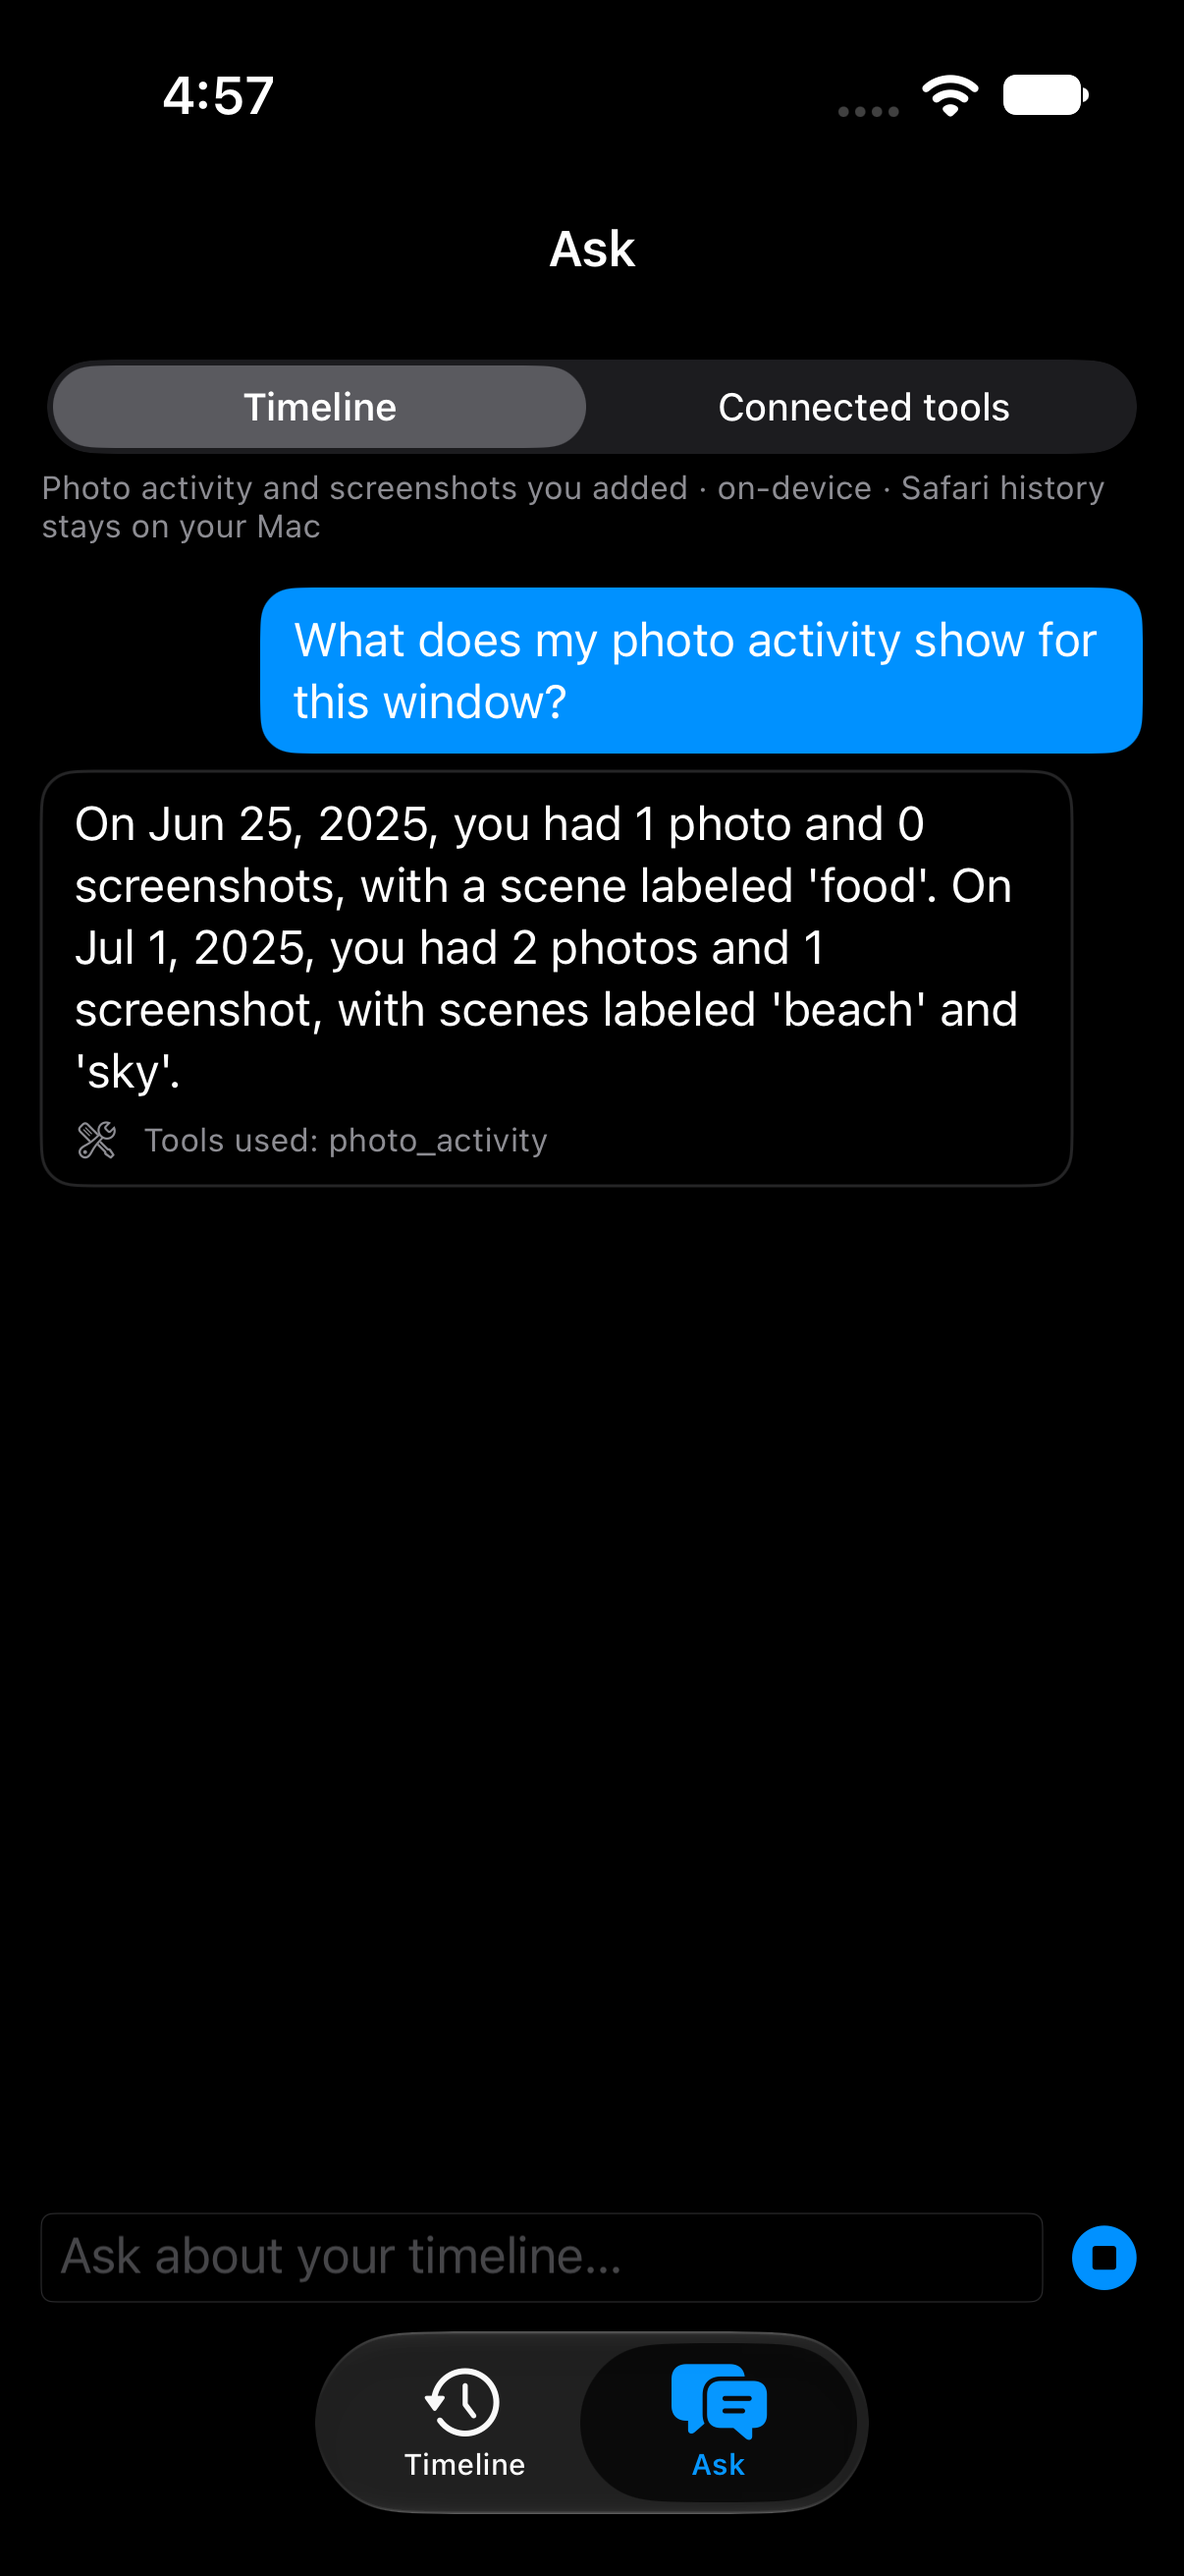
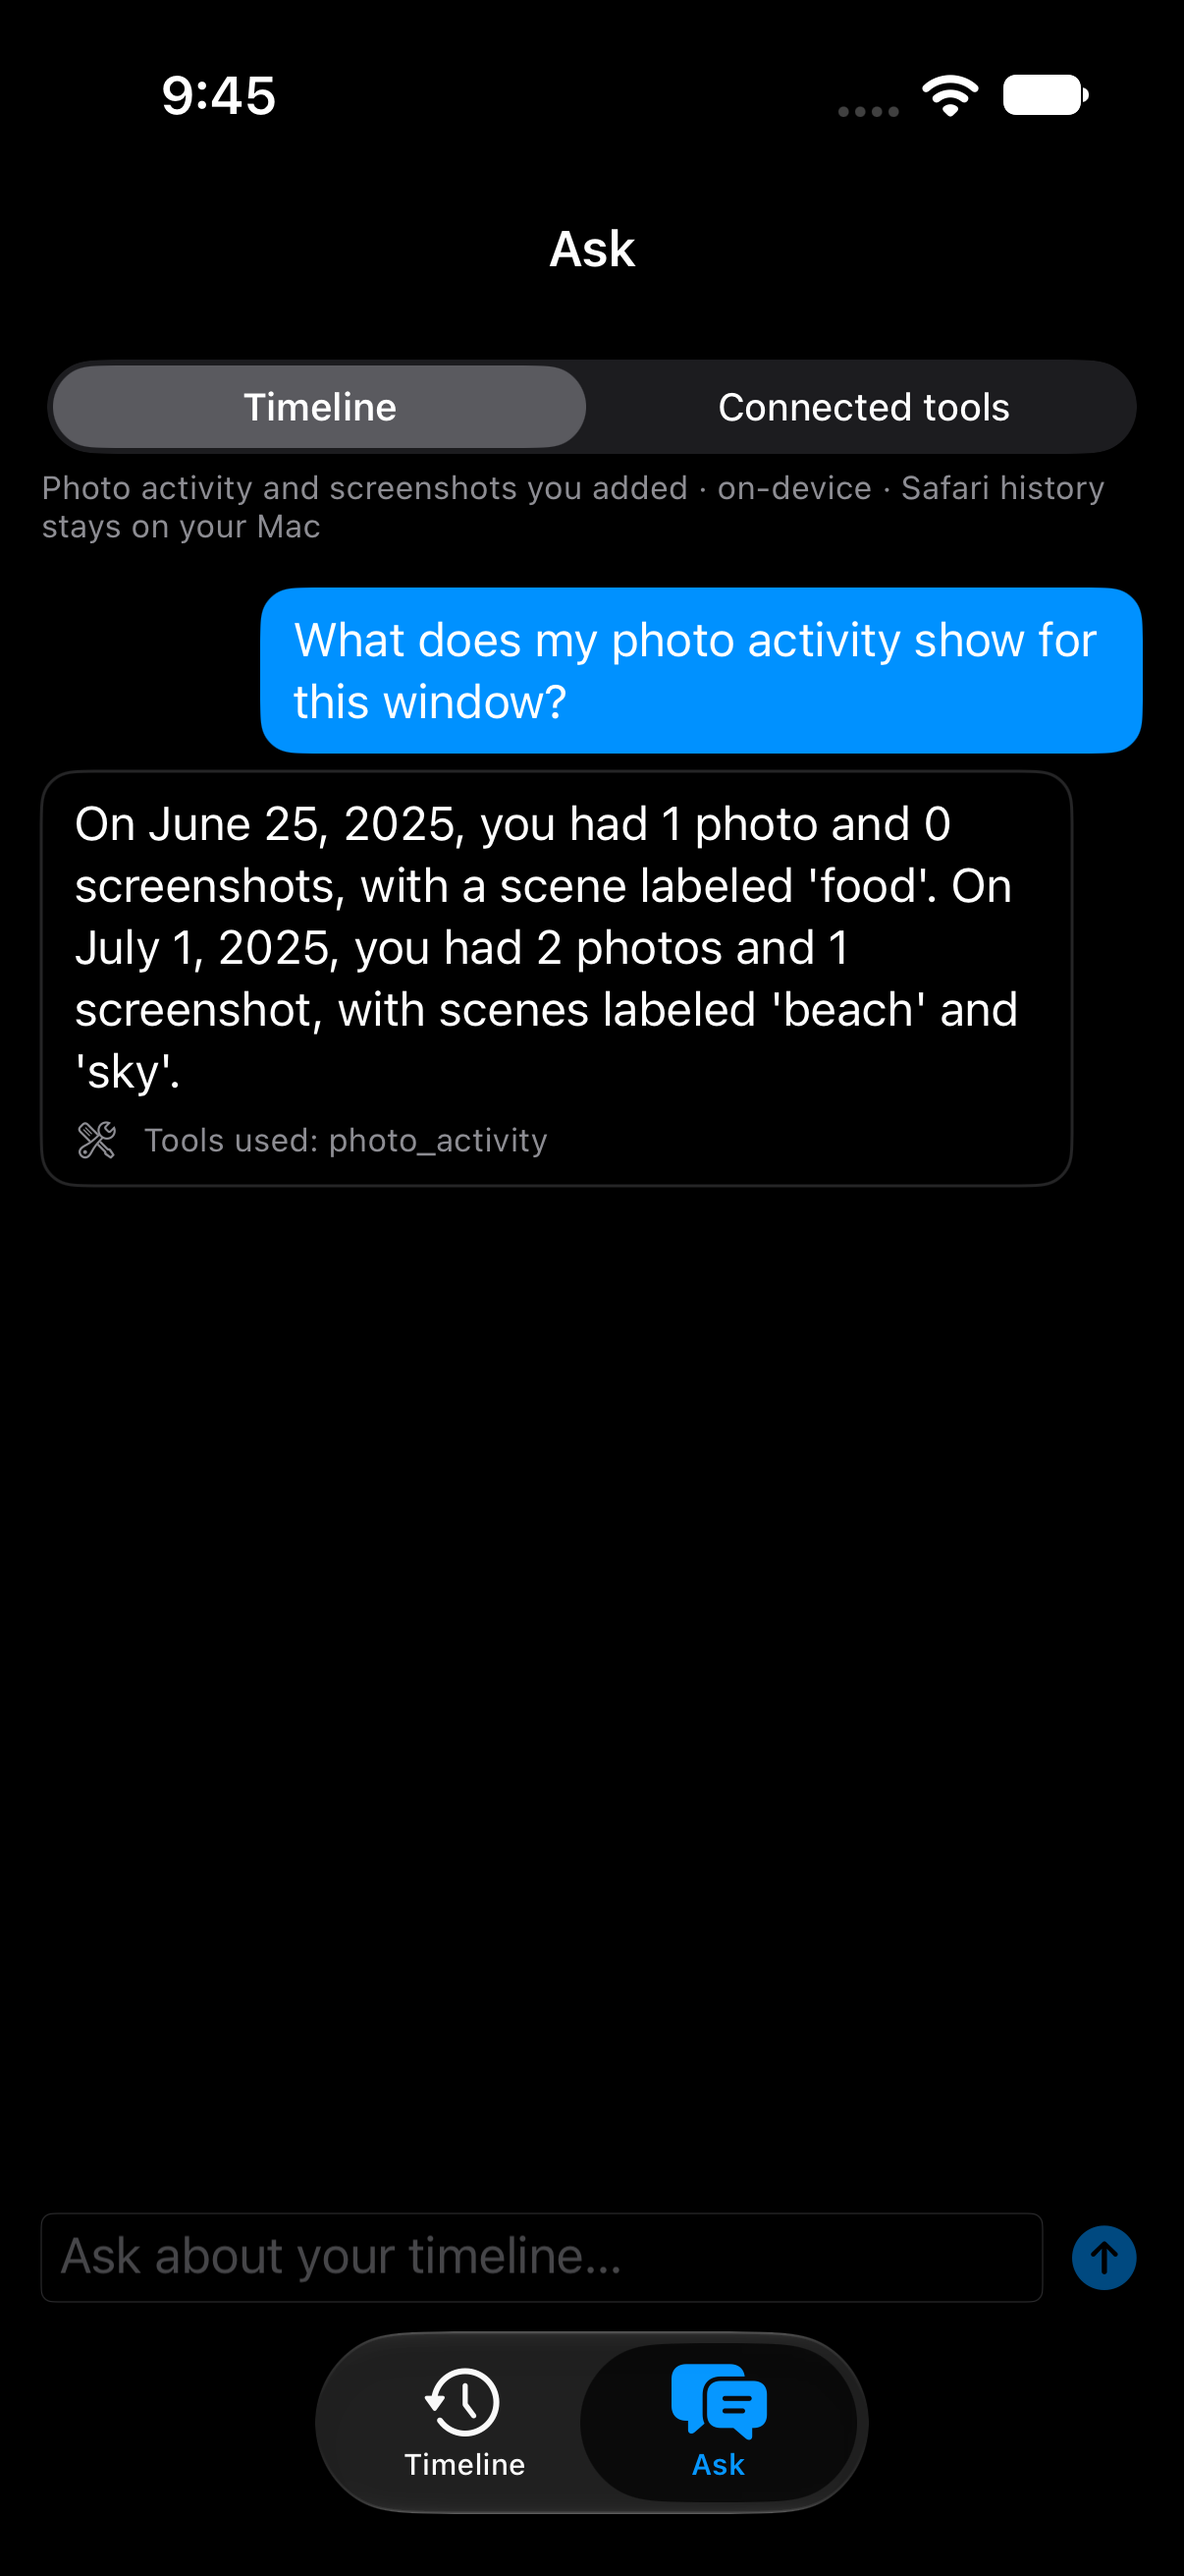
fix: Ask shows Send again when an answer finishes; pin a clock-dependent test
isAnswering read an @ObservationIgnored property, so the composer never heard
the answer end and kept Stop on screen (seen on the iPhone 17 simulator). The
active answer is now observed; a new test fails without the change.
BookingsTests built visits from 'hours ago', which split one stay across two
UTC days when run just after UTC midnight; it now uses a fixed midday anchor.
swift test: 98 XCTest + 53 Swift Testing, 0 failures; Mac and iOS build;
iOS Ask screenshots retaken.

Changed region(s): [[0.1534, 0.3089, 0.7977, 0.3707], [0.1227, 0.0309, 0.2454, 0.0618], [0.8897, 0.865, 0.9818, 0.8959]]

diff --git a/Tests/PastportKitTests/TimelineModelTests.swift b/Tests/PastportKitTests/TimelineModelTests.swift
@@ -1,4 +1,5 @@
 import Foundation
+import Observation
 import Testing
 @testable import PastportKit
 
@@ -30,6 +31,13 @@ private struct ScriptedAnswerer: TimelineAnswering {
             continuation.onTermination = { _ in task.cancel() }
         }
     }
+}
+
+private final class Flag: @unchecked Sendable {
+    private let lock = NSLock()
+    private var raised = false
+    func set() { lock.lock(); raised = true; lock.unlock() }
+    var value: Bool { lock.lock(); defer { lock.unlock() }; return raised }
 }
 
 @MainActor
@@ -123,6 +131,21 @@ struct TimelineModelTests {
         try await Task.sleep(for: .milliseconds(50))
         #expect(model.turns.first?.status == .stopped)
         #expect(model.turns.first?.answer == "Partial")
+    }
+
+    /// The composer shows Stop while `isAnswering`; a view reading it must hear when it ends.
+    @Test func finishingAnAnswerNotifiesObserversOfIsAnswering() async throws {
+        let model = phoneModel(ScriptedAnswerer(updates: [
+            TimelineAnswerProgress(text: "Done.", source: .facts(reason: "Apple Intelligence is still downloading.")),
+        ]))
+        model.input = "What happened?"
+        let changed = Flag()
+        model.ask()
+        #expect(model.isAnswering)
+        withObservationTracking { _ = model.isAnswering } onChange: { changed.set() }
+        try await waitUntil { model.turns.first?.status == .answered }
+        #expect(!model.isAnswering)
+        #expect(changed.value)
     }
 
     @Test func factsAnswerCarriesTheReason() async throws {

diff --git a/Tests/PastportKitTests/BookingsTests.swift b/Tests/PastportKitTests/BookingsTests.swift
@@ -3,8 +3,12 @@ import XCTest
 
 final class BookingsTests: XCTestCase {
 
+    /// A fixed midday-UTC anchor. Bookings collapse per UTC day, so "hours ago from now"
+    /// split one stay across two days whenever the test ran shortly after UTC midnight.
+    private static let anchor = Date(timeIntervalSince1970: 1_751_371_200) // 2025-07-01 12:00 UTC
+
     private func visit(_ hoursAgo: Int, _ title: String, _ url: String) -> Visit {
-        Visit(time: Date().addingTimeInterval(-Double(hoursAgo) * 3600), title: title, url: url)
+        Visit(time: Self.anchor.addingTimeInterval(-Double(hoursAgo) * 3600), title: title, url: url)
     }
 
     // MARK: - shape, not brand

diff --git a/Sources/PastportKit/TimelineModel.swift b/Sources/PastportKit/TimelineModel.swift
@@ -115,7 +115,8 @@ public final class TimelineModel {
     @ObservationIgnored private var journey: HistoryJourney?
     @ObservationIgnored private var operation: Task<Void, Never>?
     @ObservationIgnored private var generation = UUID()
-    @ObservationIgnored private var activeAnswerID: UUID?
+    /// Observed: the composer swaps Send for Stop on `isAnswering`.
+    private var activeAnswerID: UUID?
     @ObservationIgnored private var started = false
     @ObservationIgnored private var unlocked = false
     @ObservationIgnored var visits: [Visit] = []
